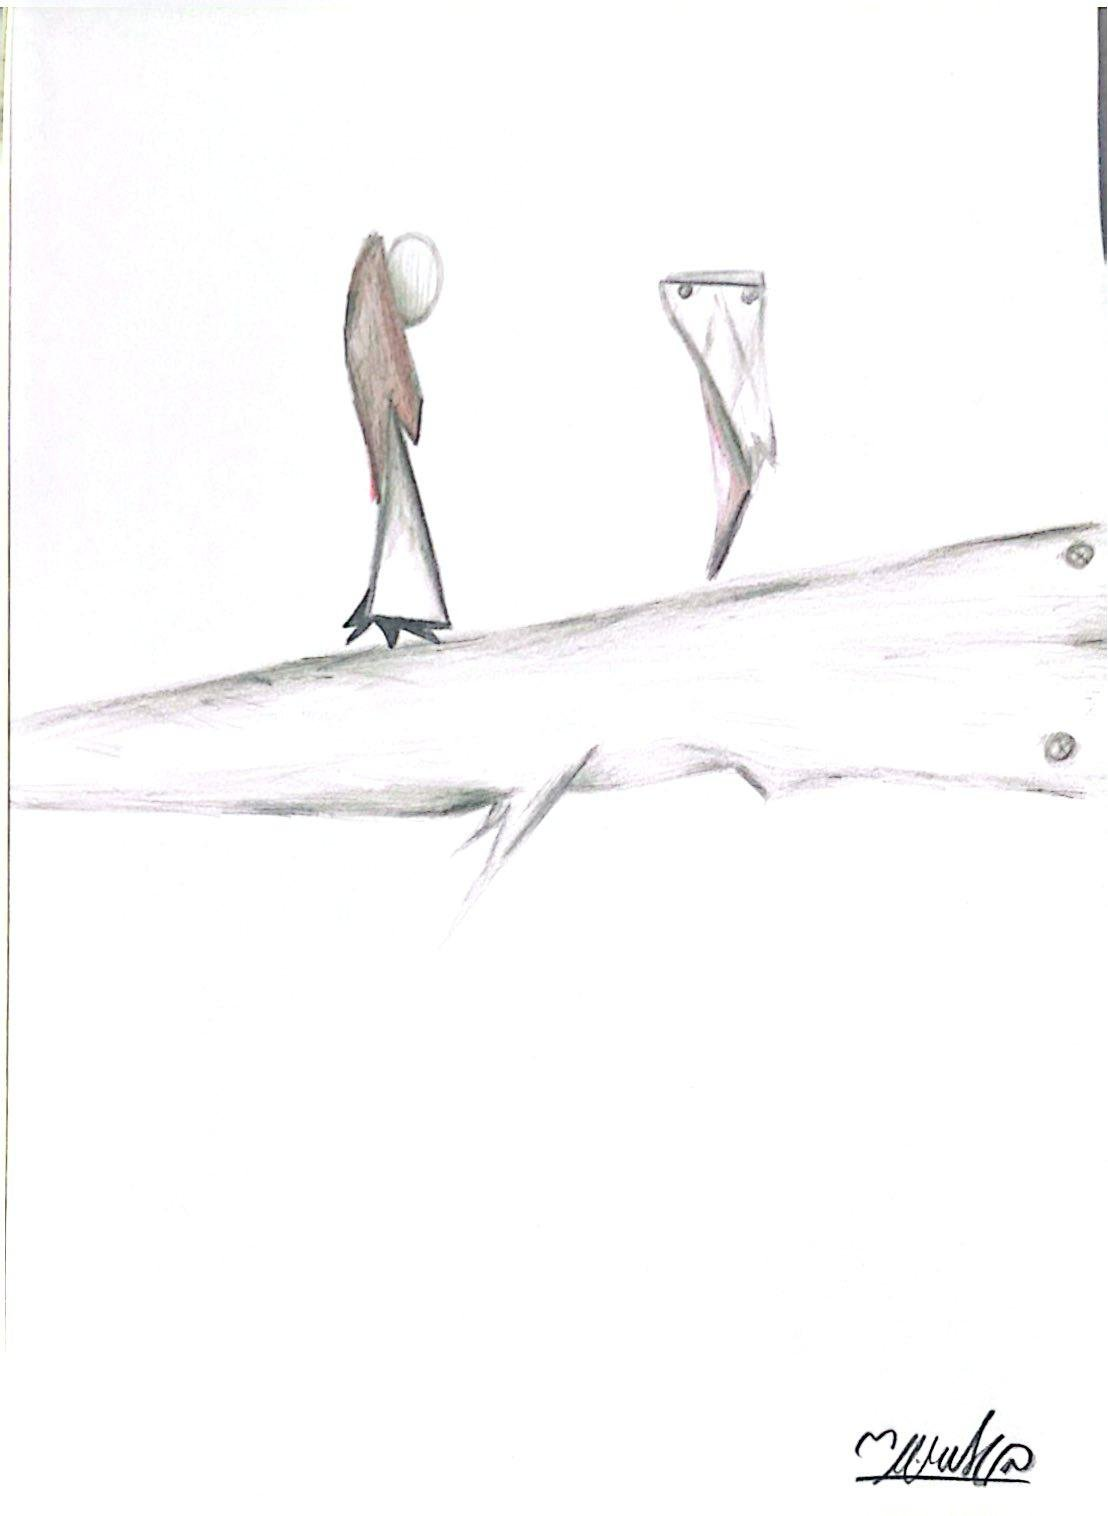
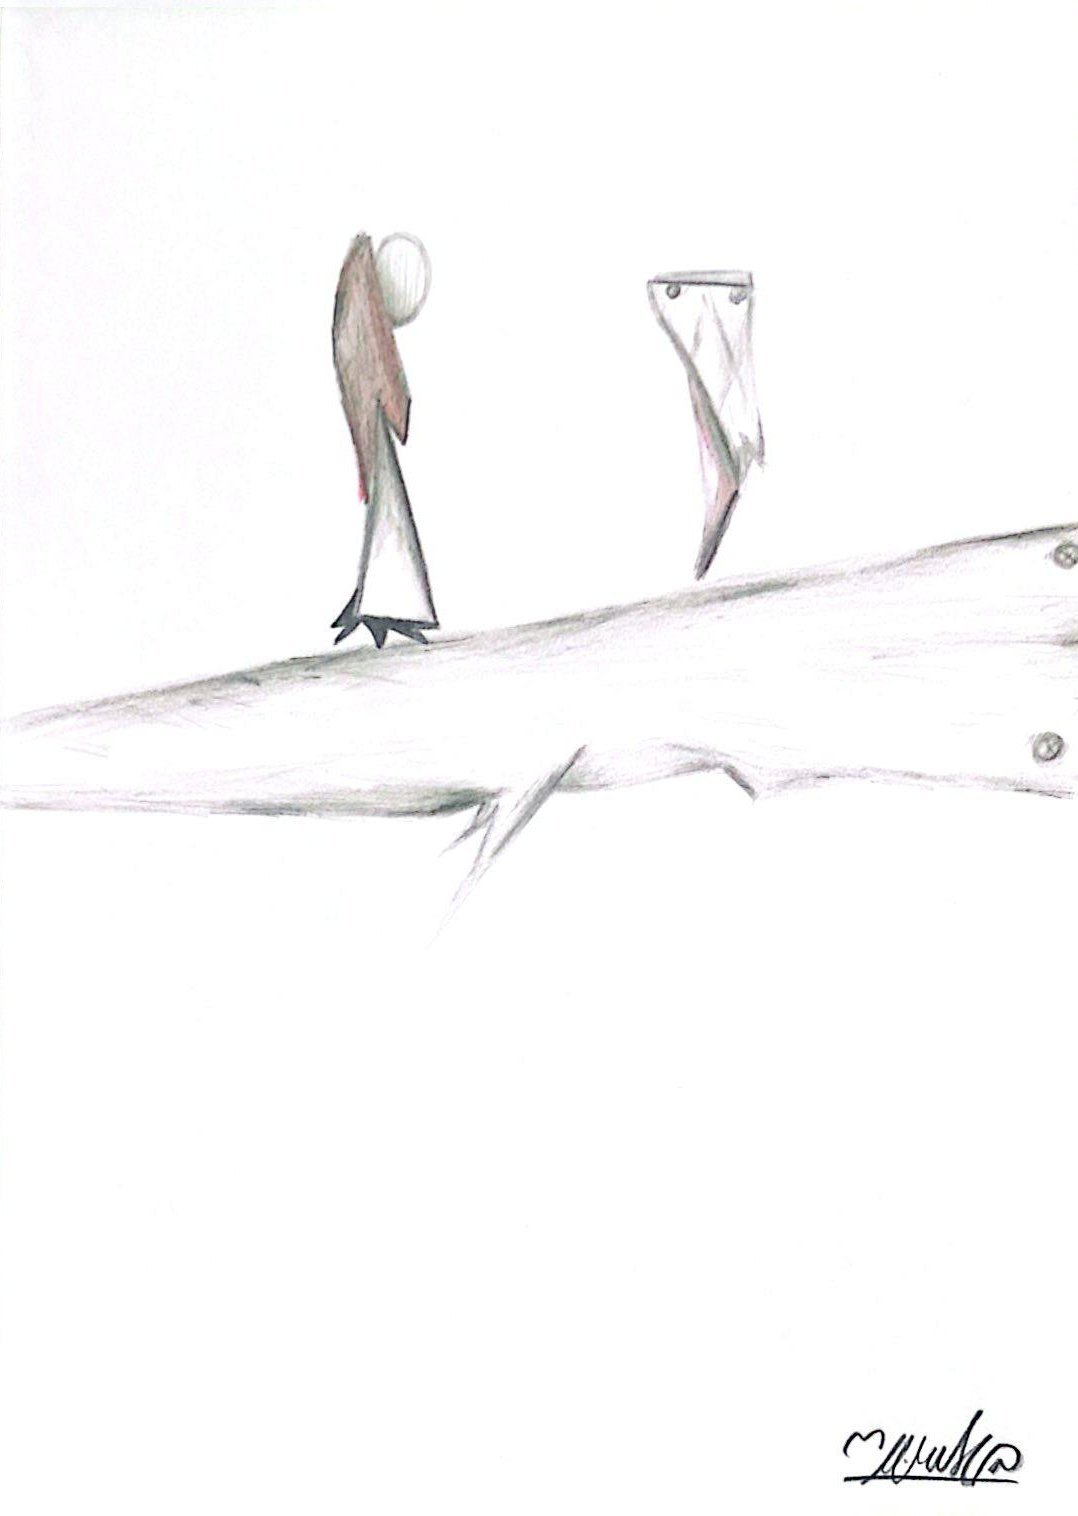
Equal-size mats so drawings and names align; trim scan edges on Metal bird
Claude-Session: https://claude.ai/code/session_01LZK15f5bYMUBJjzuQ3oD19

diff --git a/style.css b/style.css
@@ -48,9 +48,15 @@ main { max-width: 1100px; margin: 0 auto; padding: 48px 16px 96px; }
   align-items: start;
 }
 .piece { margin: 0; cursor: zoom-in; outline: none; }
+.piece .frame {
+  aspect-ratio: 4 / 5;
+  background: #f6f6f4;
+  padding: 28px;
+  display: flex; align-items: center; justify-content: center;
+}
 .piece img {
-  display: block; width: 100%; height: auto;
-  border: 1px solid var(--line);
+  display: block; max-width: 100%; max-height: 100%; width: auto; height: auto;
+  box-shadow: 0 1px 4px rgba(0,0,0,.12);
   transition: opacity .2s ease;
 }
 .piece:hover img, .piece:focus-visible img { opacity: .85; }

diff --git a/app.js b/app.js
@@ -32,7 +32,10 @@
       img.src = "art/" + it.file;
       img.alt = it.title || "Artwork by Ben";
       img.loading = "lazy";
-      fig.appendChild(img);
+      const frame = document.createElement("div");
+      frame.className = "frame";
+      frame.appendChild(img);
+      fig.appendChild(frame);
       if (it.title || it.year || it.medium) {
         const cap = document.createElement("figcaption");
         cap.innerHTML = `<span class="title"></span><span class="meta"></span>`;
